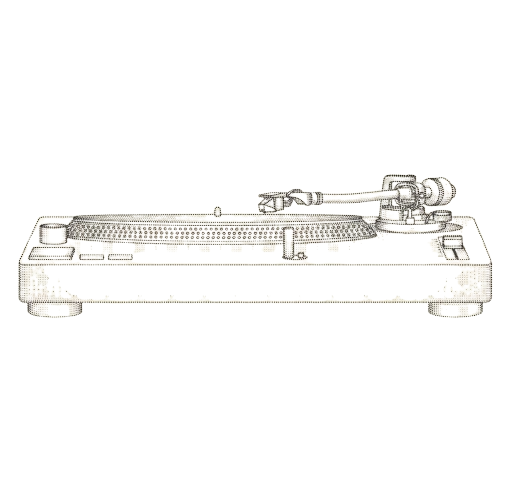
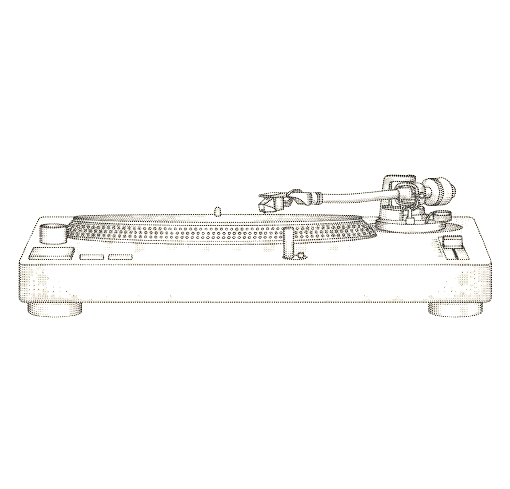
Fill the void with a drifting wall of covers
Three rows of ten, alternating direction so the eye never settles into one
sweep. Each row holds its list twice and travels exactly half its own width, so
the second copy lands where the first began and the loop has no seam. The three
run at different speeds for the same reason -- matched durations would let the
rows line up and read as a single moving block.

The edges dissolve rather than ending on a line. Three backdrop-filter passes,
each masked to reach further in than the last, so sharpness falls away toward the
edge instead of stepping down once: one blurred overlay reads as a smeared
border, several read as depth. A vignette over the top lets the panel emerge from
the room rather than sitting on it as a rectangle.

The wall takes whatever vertical space is left rather than declaring a height,
and its covers are sized off row height, so it reflows into the gap the
composition leaves at any screen size instead of dictating one.

No client JavaScript. One keyframe and a flipped animation-direction do the
movement, so this stays in a server component and the page stays statically
prerendered. Reduced motion needed nothing new: the existing rule stops every
animation inside the scene.

Also widens the gap above the turntable -- the wordmark was sitting on the band,
since the padding reserved exactly the band's height and nothing more.

Changed region(s): [[0.4412, 0.4601, 0.4706, 0.4908]]

diff --git a/app/cover-wall.tsx b/app/cover-wall.tsx
@@ -1,0 +1,98 @@
+/**
+ * A wall of album covers, drifting.
+ *
+ * Rows alternate direction so the eye never settles on a single sweep, and the
+ * panel's edges dissolve rather than ending on a hard line -- covers slide out of
+ * focus before they slide out of frame.
+ *
+ * No client JavaScript: the movement is one keyframe per direction and the blur
+ * is layered backdrop-filter, so this stays inside a server component and the
+ * landing page stays statically prerendered.
+ */
+
+const COVERS = Array.from(
+  { length: 30 },
+  (_, i) => `/covers/cover-${String(i + 1).padStart(2, "0")}.jpg`
+);
+
+// Three rows of ten. Each is rendered twice back to back and travels exactly
+// half its own width, so the second copy lands where the first began and the
+// loop has no seam.
+const ROWS = [COVERS.slice(0, 10), COVERS.slice(10, 20), COVERS.slice(20, 30)];
+
+/** Slightly different speeds, so the rows never line up into a single block. */
+const DURATIONS = ["44s", "58s", "50s"];
+
+export function CoverWall() {
+  return (
+    <div
+      aria-hidden="true"
+      className="relative min-h-0 w-full flex-1 select-none overflow-hidden rounded-[18px]"
+    >
+      <div className="flex h-full flex-col justify-center gap-[2%]">
+        {ROWS.map((row, index) => (
+          <div key={index} className="relative min-h-0 flex-1 overflow-hidden">
+            <div
+              className="absolute inset-y-0 left-0 flex w-max gap-[6px]"
+              style={{
+                animation: `wallScroll ${DURATIONS[index]} linear infinite`,
+                // Odd rows run the other way, which is the whole effect.
+                animationDirection: index % 2 === 1 ? "reverse" : "normal",
+              }}
+            >
+              {[...row, ...row].map((src, i) => (
+                // eslint-disable-next-line @next/next/no-img-element
+                <img
+                  key={`${src}-${i}`}
+                  src={src}
+                  alt=""
+                  width={300}
+                  height={300}
+                  loading="lazy"
+                  // Height-driven so the wall reflows into whatever vertical
+                  // space is left, rather than dictating its own size.
+                  className="h-full w-auto rounded-[4px] object-cover blur-[1.1px]"
+                />
+              ))}
+            </div>
+          </div>
+        ))}
+      </div>
+
+      {/* Progressive blur: several passes, each masked to reach further in than
+          the last, so sharpness falls away toward the edges instead of stepping
+          down once. A single blurred overlay reads as a smeared border; this
+          reads as depth. */}
+      {[
+        { blur: "2px", stop: "26%" },
+        { blur: "6px", stop: "15%" },
+        { blur: "14px", stop: "7%" },
+      ].map(({ blur, stop }) => (
+        <div
+          key={blur}
+          className="pointer-events-none absolute inset-0"
+          style={{
+            backdropFilter: `blur(${blur})`,
+            WebkitBackdropFilter: `blur(${blur})`,
+            maskImage: `linear-gradient(to right, #000, transparent ${stop}, transparent calc(100% - ${stop}), #000),
+                        linear-gradient(to bottom, #000, transparent ${stop}, transparent calc(100% - ${stop}), #000)`,
+            WebkitMaskImage: `linear-gradient(to right, #000, transparent ${stop}, transparent calc(100% - ${stop}), #000),
+                              linear-gradient(to bottom, #000, transparent ${stop}, transparent calc(100% - ${stop}), #000)`,
+            maskComposite: "add",
+            WebkitMaskComposite: "source-over",
+          }}
+        />
+      ))}
+
+      {/* And a darkening vignette on top, so the wall emerges from the room
+          rather than sitting on it as a rectangle. */}
+      <div
+        className="pointer-events-none absolute inset-0"
+        style={{
+          background:
+            "radial-gradient(120% 100% at 50% 50%, transparent 34%, rgba(6,5,4,0.72) 78%, #060504 100%)",
+        }}
+      />
+    </div>
+  );
+}

diff --git a/app/page.tsx b/app/page.tsx
@@ -1,5 +1,7 @@
 import Link from "next/link";
 
+import { CoverWall } from "./cover-wall";
+
 /**
  * The landing page, from the Figma design (node 44:6).
  *
@@ -27,7 +29,7 @@ export default function Home() {
       {/* The frame starts the headline about a fifth of the way down. Held as a
           fraction so it stays a fifth on any screen, with a floor for very short
           windows where a proportional gap would leave nothing for the copy. */}
-      <main className="relative z-10 mx-auto flex w-full max-w-[460px] flex-1 flex-col px-7 pb-[min(45vw,238px,22vh)] pt-[max(64px,19vh)]">
+      <main className="relative z-10 mx-auto flex w-full max-w-[460px] flex-1 flex-col px-7 pb-[calc(min(45vw,238px,22vh)+2.25rem)] pt-[max(64px,19vh)]">
         <h1 className="display max-w-[19rem] text-[clamp(26px,4.4vh,36px)] leading-[1.12] sm:text-[40px]">
           Everything you&apos;ve got spinning
         </h1>
@@ -36,9 +38,11 @@ export default function Home() {
           socials
         </p>
 
-        {/* The frame leaves a deliberate void here, pushing the actions to the
-            foot of the screen rather than stacking them under the copy. */}
-        <div className="flex-1" />
+        {/* The frame leaves a void here; the wall fills it, taking whatever
+            vertical space is left rather than asserting a height of its own. */}
+        <div className="mt-7 flex min-h-0 flex-1 flex-col justify-center">
+          <CoverWall />
+        </div>
 
         <div className="flex flex-col items-center gap-3.5 pt-8">
           <Link href="/login" className="btn-gold !px-6 !py-3">

diff --git a/app/globals.css b/app/globals.css
@@ -271,6 +271,19 @@ body {
   }
 }
 
+/* The cover wall. Each row holds its list twice, so travelling exactly half its
+   own width lands the second copy where the first began and the loop is seamless.
+   Direction is flipped per row with animation-direction rather than a second
+   keyframe. */
+@keyframes wallScroll {
+  from {
+    transform: translateX(0);
+  }
+  to {
+    transform: translateX(-50%);
+  }
+}
+
 @keyframes shelfSheen {
   0% {
     transform: translateX(-140%) skewX(-18deg);
